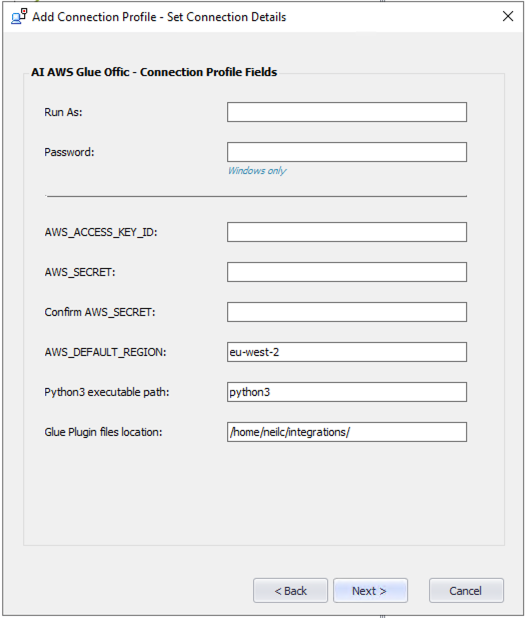
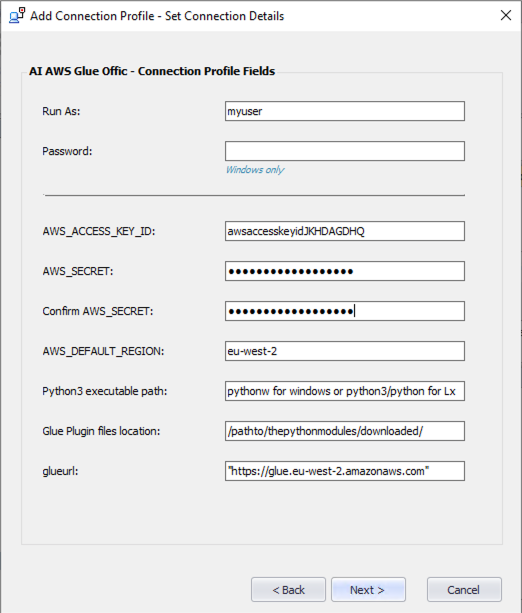
Added windows documentation to quickstart guide

diff --git a/docs/quickstart.md b/docs/quickstart.md
@@ -10,27 +10,56 @@ This plugin is based on the AWS recommended sdk integration with AWS Glue.
 
 https://docs.aws.amazon.com/glue/latest/dg/aws-glue-programming-python-calling.html
  
-### Installation Details
-Prerequisites and installation notes:
+## Installation Details
+### Prerequisites and installation notes:
 
     1.) Control-M Agent V9.0.20x or higher on a supported Linux or Windows environment with the Application Integrator CM V9.0.20x or higher
     2.) AWS access keys for programmatic access
-   
-#### Authentication:
-This plugin uses the AWS recommended access key ID and secret access key for programmatic access.
+    3.) Python 3.6 or higher
 
-No username and passwords are used.
-For details regarding AWS access key authorization, please visit the AWS authentication page by using the link below
+To set up aws programmatic access refer to this link
 
-https://docs.aws.amazon.com/general/latest/gr/aws-sec-cred-types.html
-   
+https://docs.aws.amazon.com/general/latest/gr/aws-sec-cred-types.html#access-keys-and-secret-access-keys
+
+#### Python Libraries
+
+This module uses the aws sdk for integration and therefore requires the python modules to handle to calls.
+
+See the link below for guidance on installing the sdk and other libraries.
+
+https://docs.python.org/3/installing/index.html
+
+The libraries can be installed using pip install
+
+    example: pip install boto3
+
+Below is a list of the required python libraries in order for the modules to function correctly.
+
+    boto3
+    pandas
+    ast
+    sys
+    json
+    os
+    time
+ 
 #### 1. Download the AWS Glue job 
-http://github.com/awsglueaijob.
+http://github.com/awsglueaijob
+
+#### 2. Download the AWS Glue plugin modules
+
+    gluejobctminput_env.py
+    gluejobctmmonitor_env.py
+    
+Place the files in an accessible location on the host where the Control-M agent is installed and take note of the location
+
+    example Windows: c:\ctmplugins\glueplugin\ 
+    example Linux: /home/user/ctmplugins/glueplugin/
 
 ##### Watch an introduction video on Application Integrator
 [AppIntVideo](https://youtu.be/7CshwZYMPWw)
 
-#### 2. Deploy the plugin.
+#### 3. Deploy the plugin.
         a. Using the Application Integrator UI
         b. Using the Control-M Automation API  
     
@@ -38,7 +67,7 @@ http://github.com/awsglueaijob.
 ![aideploy](./images/gluedeployscrn.png)
         
            
-#### 3. Define a connection profile
+#### 4. Define a connection profile
 
 ##### Connection Profile: Used for authenticating with AWS
     Add a new connection profile from the Configuration Manager.
@@ -48,9 +77,26 @@ http://github.com/awsglueaijob.
     Input the required fields
     Note: The AWS secret key will be encrypted at entry.
 
+### Linux Connection profile example
+
 ![connectionprofile](./images/gluconnprofdetails.png)
 
-#### 4. Define an AWS Glue trigger job in Control-M
+| Field | Value |
+| --- | --- |
+| AWS_ACCESS_KEY_ID | The access key your created on aws
+| AWS_SECRET | The secret associated with your aws access key above |
+| AWS_DEFAULT_REGION | The default region associated with your aws access key id |
+| Python3 executable path | The path to your python executable |
+|| Important NOTE: The python path for windows should point to the pythonw.exe|
+|| For Windows: Pointing to the python.exe will result in failure of the modules to function due to the inability to work without an open execution window|
+||Path handling : Remember to double quote paths if there are spaces as seen in the windows connection profile example below|
+|Glue Plugin files location | The path to the location of the plugin modules that were downloaded|
+|glueurl| The url to your AWS Glue environment, example: "https://glue.eu-west-2.amazonaws.com"|
+
+### Windows Connection profile example
+
+![connectionprofile](./images/gluconnwinprofdetails.png)
+#### 5. Define an AWS Glue trigger job in Control-M
 
 ##### Job palette - Drag and drop your jobtype into a folder
 
@@ -72,10 +118,7 @@ http://github.com/awsglueaijob.
 | |If there are no Job Arguments then leave the text field empty|
 | Job Monitor Interval | The polling time in seconds that your job status should be verified
 
- 
-
-
-#### 5. You can also choose to build your Glue trigger job in Control-M Automation API using jobs-as-code
+#### 6. You can also choose to build your Glue trigger job in Control-M Automation API using jobs-as-code
 
 Control-M automation api allows for the creation of jobs in a JSON format.
 Once you have deployed the AWS Glue plugin you have immediate support for the creation of AWS Glue jobs
@@ -104,10 +147,10 @@ Sample JSON
 }
 ``` 
     
-#### 6. Run your first AWS Glue job from Control-M
+#### 7. Run your first AWS Glue job from Control-M
 
 
-#### 7. The Troubleshooting guide can be found at the following link
+#### 8. The Troubleshooting guide can be found at the following link
 https://pmbmc.github.io/ifdocs/#/glue_troubleshooting
 
 ##### Performance:

diff --git a/docs/README.md b/docs/README.md
@@ -53,4 +53,4 @@ visibility and management of the entire ecosystem, bonding pipelines with supply
  
  https://pmbmc.github.io/ifdocs/#/awsglue_troubleshooting
 
- 
+![](./videos/ct_dataops.mp4 ':include :type=iframe width=100% height=400px') 
